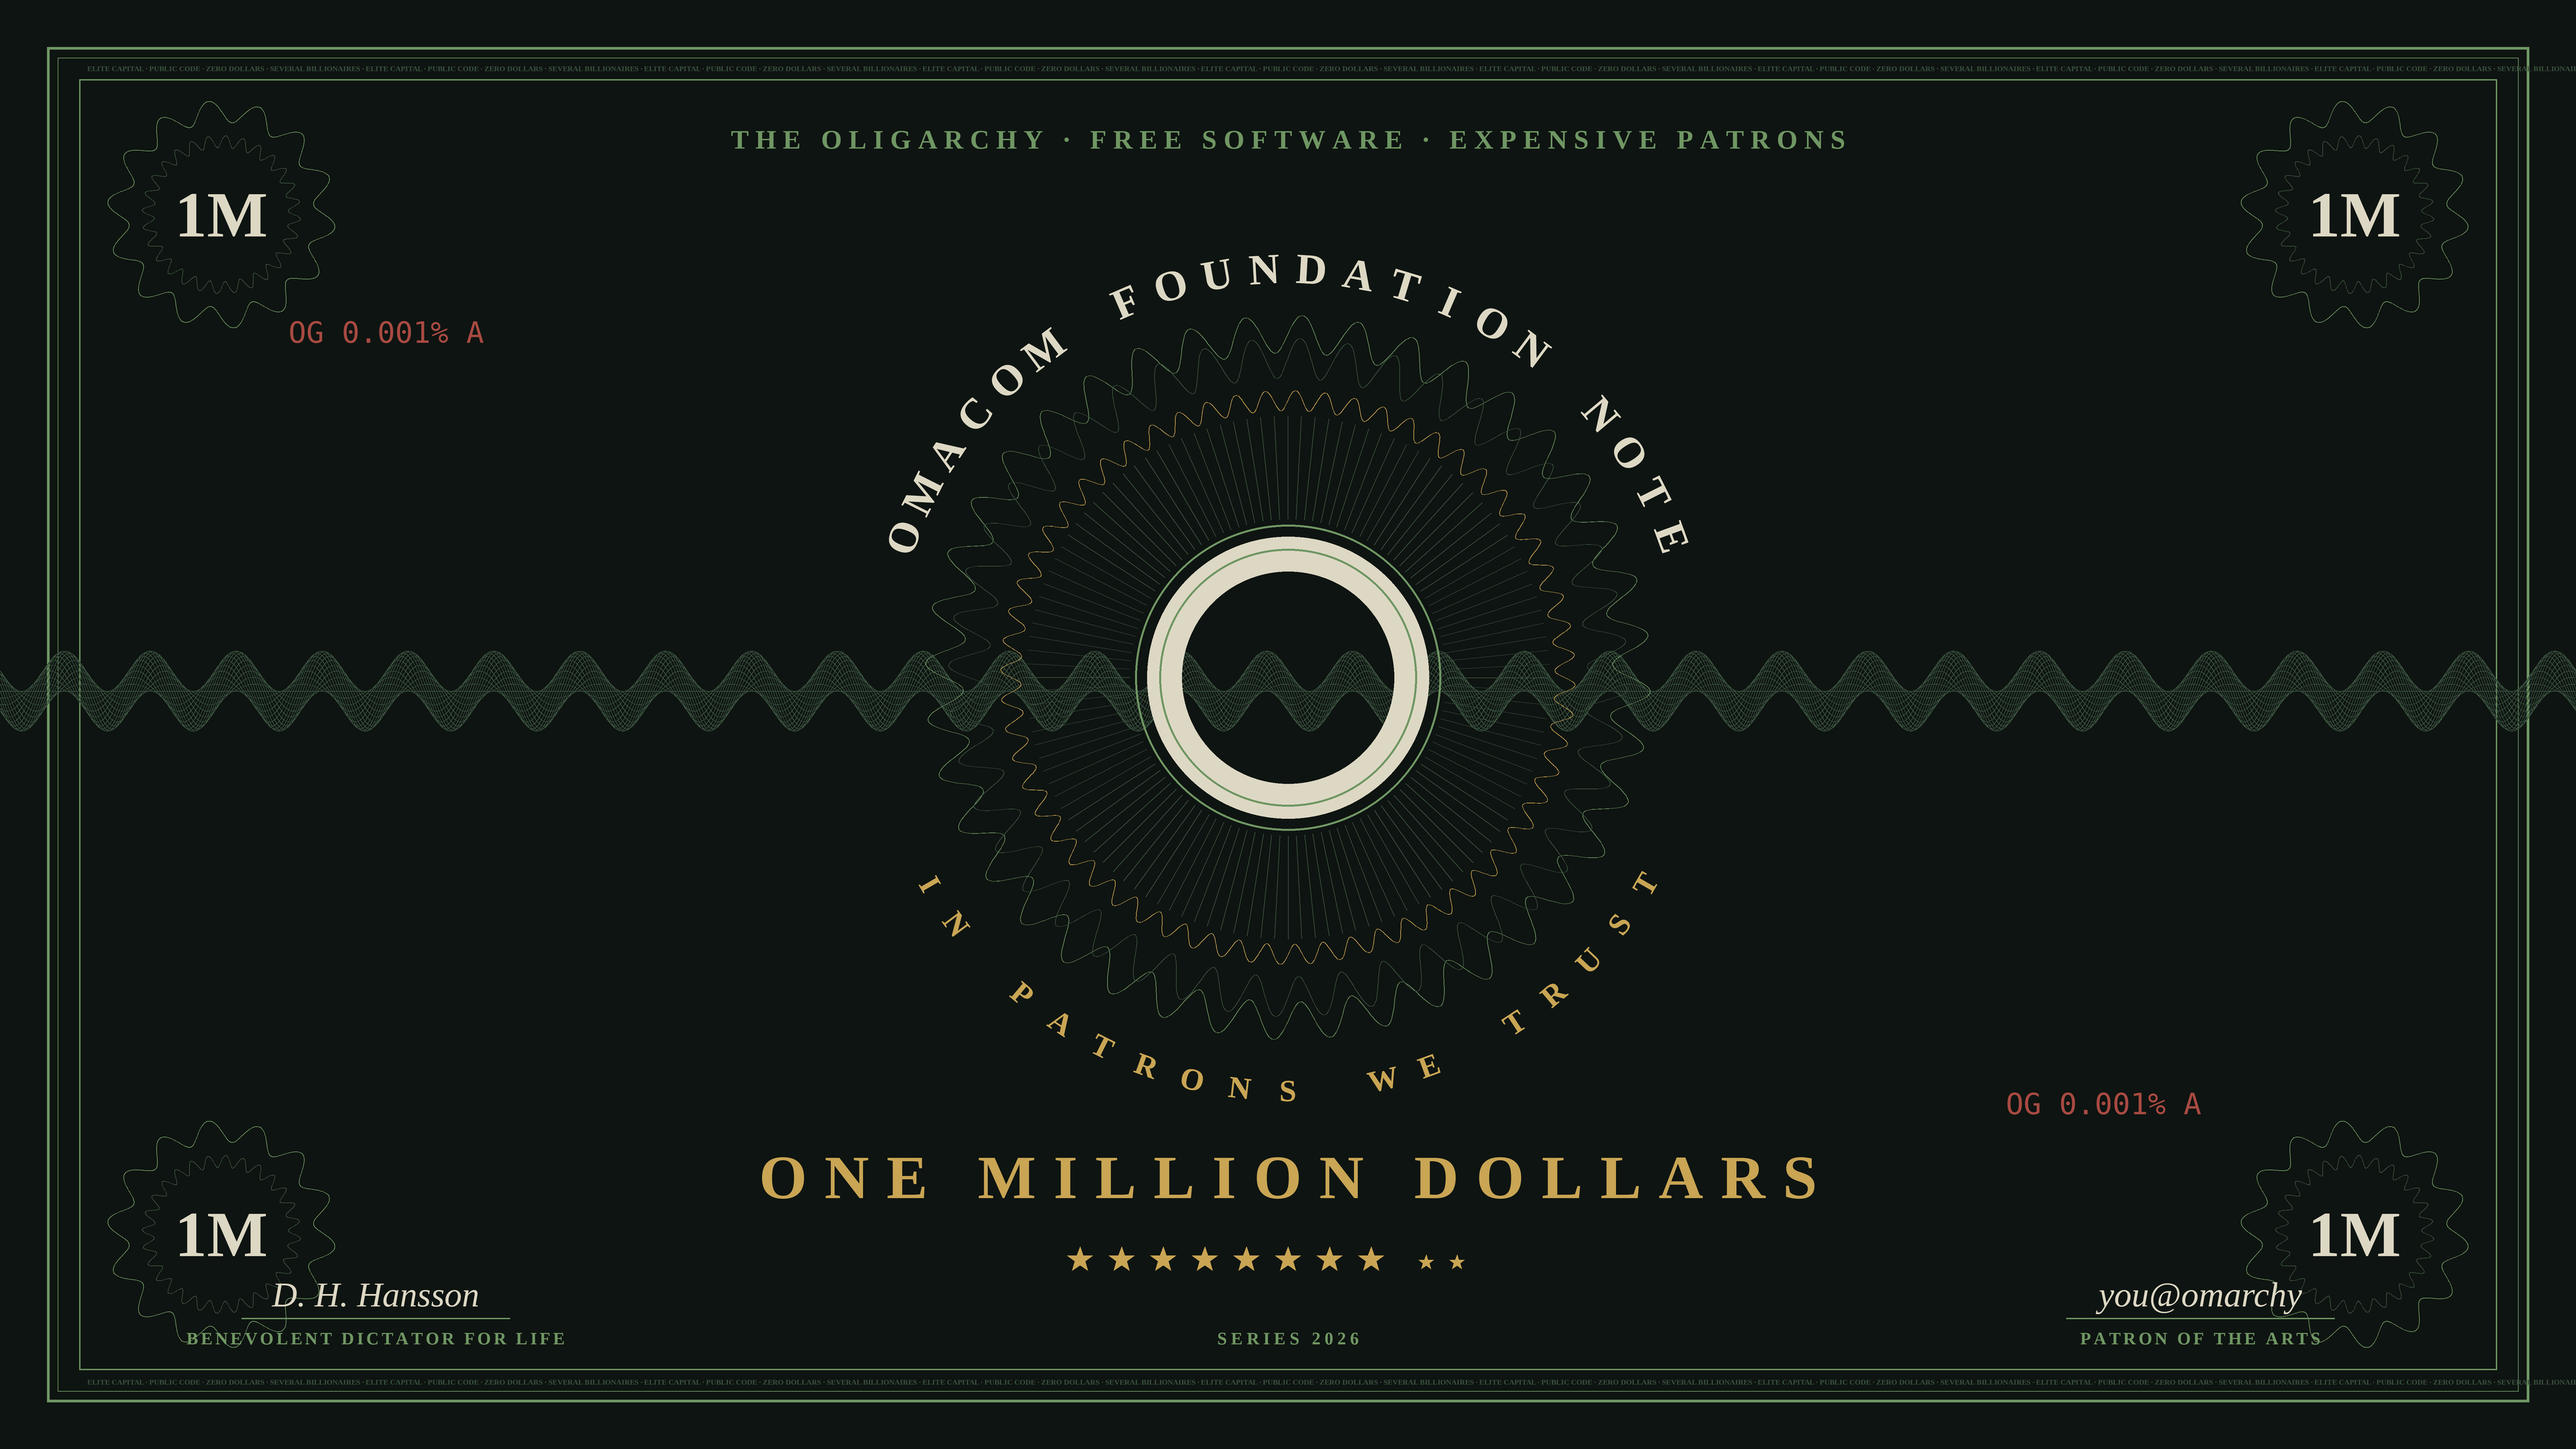
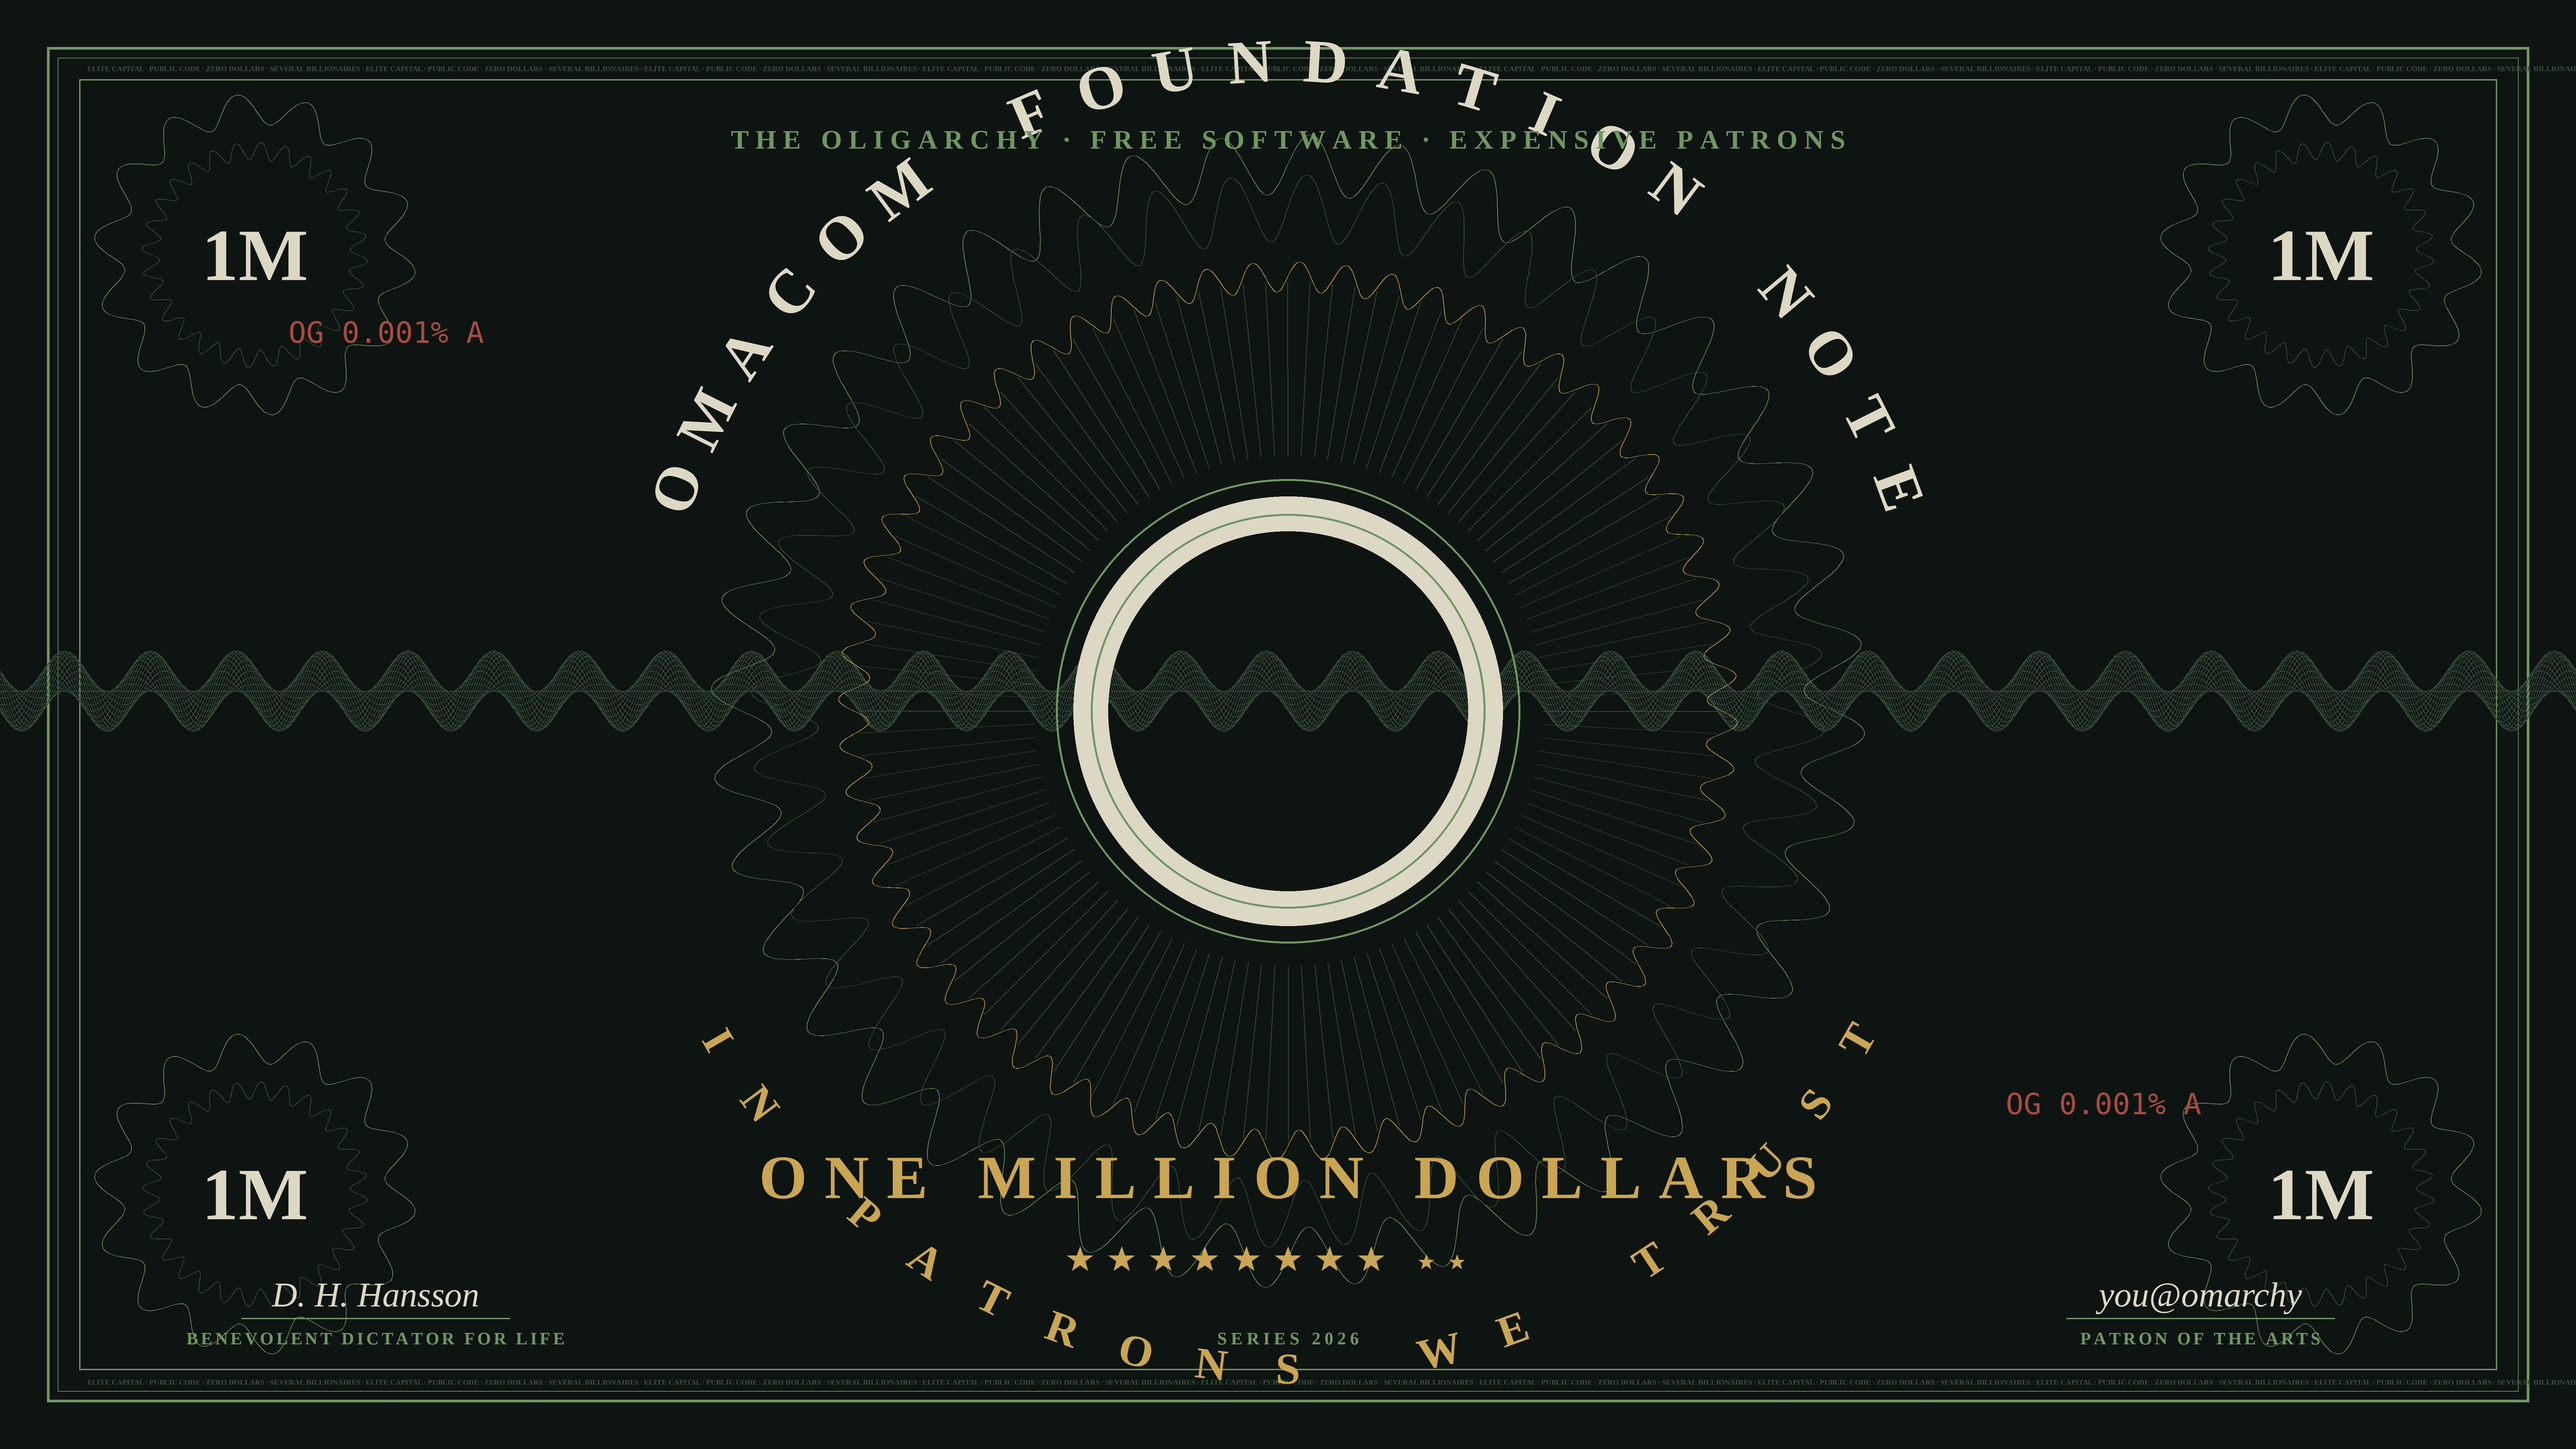
Add 9 denomination variants + backgrounds collage + matching README
Each variant carries its own serial; bin/variants.py regenerates the
set and bin/make_collage.py composes the 3x2 grid into backgrounds.jpg,
matching the layout dhh uses in omarchy-diablo-dreams-theme. The central
medallion is now scaled up so the wallpaper reads as art rather than a
tiny element on a black field. README embeds both preview.png and
backgrounds.jpg.

diff --git a/bin/variants.py b/bin/variants.py
@@ -1,0 +1,110 @@
+#!/usr/bin/env python3
+"""Render the 9 denomination variants of the Omacom Foundation Note.
+
+Reuses the engraving helpers from generate.py but produces 1.jpg .. 9.jpg in
+backgrounds/ at different denominations ($100 .. $10,000,000,000). The collage
+composed by make_collage.py reads them in numeric order.
+"""
+
+import os
+import sys
+import math
+from PIL import Image, ImageDraw, ImageFont
+
+sys.path.insert(0, os.path.dirname(__file__))
+import generate
+from generate import W, H, SS, BG, GREEN, GREEN_DIM, CREAM, GOLD, RED, SERIF, SERIF_IT, MONO
+
+
+DENOMS = [
+    ("100",    "$100",            "ONE HUNDRED DOLLARS"),
+    ("1k",     "$1,000",          "ONE THOUSAND DOLLARS"),
+    ("10k",    "$10,000",         "TEN THOUSAND DOLLARS"),
+    ("100k",   "$100,000",        "ONE HUNDRED THOUSAND DOLLARS"),
+    ("1m",     "$1,000,000",      "ONE MILLION DOLLARS"),
+    ("10m",    "$10,000,000",     "TEN MILLION DOLLARS"),
+    ("100m",   "$100,000,000",    "ONE HUNDRED MILLION DOLLARS"),
+    ("1b",     "$1,000,000,000",  "ONE BILLION DOLLARS"),
+    ("10b",    "$10,000,000,000", "TEN BILLION DOLLARS"),
+]
+
+MICROPRINT = "ELITE CAPITAL \u00b7 PUBLIC CODE \u00b7 ZERO DOLLARS \u00b7 SEVERAL BILLIONAIRES \u00b7 "
+
+
+def render_one(img, d, denom_short, amount_label, headline):
+    def font(path, size):
+        return ImageFont.truetype(path, size * SS)
+
+    # Outer borders + microprint.
+    for m, wd in ((70, 4), (86, 1), (118, 2)):
+        d.rectangle([m * SS, m * SS, W * SS - m * SS, H * SS - m * SS], outline=GREEN, width=wd * SS)
+    mp_font = font(SERIF, 11)
+    for y in (96, H - 106):
+        x = 130 * SS
+        while x < W * SS - 130 * SS:
+            d.text((x, y * SS), MICROPRINT, font=mp_font, fill=GREEN_DIM)
+            x += int(d.textlength(MICROPRINT, font=mp_font))
+
+    generate.lattice_band(970, 1090, GREEN_DIM, waves=30, strands=18)
+
+    for cx, cy in ((330, 320), (W - 330, 320), (330, H - 320), (W - 330, H - 320)):
+        generate.rosette(cx, cy, 170, 138, GREEN, petals=14)
+        generate.rosette(cx, cy, 118, 100, GREEN_DIM, petals=28)
+        generate.text_at(cx, cy, amount_label, font(SERIF, 86), CREAM)
+
+    CX, CY = W // 2, 1010
+    generate.rosette(CX, CY, 540, 484, GREEN, petals=40)
+    generate.rosette(CX, CY, 506, 446, GREEN_DIM, petals=44)
+    generate.rosette(CX, CY, 428, 398, GOLD, petals=60)
+    for t in range(0, 360, 3):
+        a = math.radians(t)
+        r1, r2 = 236 * SS, 390 * SS
+        d.line(
+            [
+                (CX * SS + r1 * math.cos(a), CY * SS + r1 * math.sin(a)),
+                (CX * SS + r2 * math.cos(a), CY * SS + r2 * math.sin(a)),
+            ],
+            fill=GREEN_DIM,
+            width=SS,
+        )
+    d.ellipse([(CX - 210) * SS, (CY - 210) * SS, (CX + 210) * SS, (CY + 210) * SS], outline=CREAM, width=52 * SS)
+    d.ellipse([(CX - 228) * SS, (CY - 228) * SS, (CX + 228) * SS, (CY + 228) * SS], outline=GREEN, width=3 * SS)
+    d.ellipse([(CX - 192) * SS, (CY - 192) * SS, (CX + 192) * SS, (CY + 192) * SS], outline=GREEN, width=3 * SS)
+
+    generate.arc_text(CX, CY, 610, "OMACOM FOUNDATION NOTE", font(SERIF, 64), CREAM, 200, 340)
+    generate.arc_text(CX, CY, 616, "IN PATRONS WE TRUST", font(SERIF, 46), GOLD, 150, 30, flip=True)
+
+    generate.text_at(W // 2, 1755, headline, font(SERIF, 78), GOLD, tracking=22)
+    generate.text_at(W // 2, 208, "THE OLIGARCHY \u00b7 FREE SOFTWARE \u00b7 EXPENSIVE PATRONS", font(SERIF, 40), GREEN, tracking=10)
+
+    sx = W // 2 - 5 * 62
+    for i in range(8):
+        generate.star(sx + i * 62, 1878, 20, GOLD)
+    for i in range(2):
+        generate.star(sx + 8 * 62 + 20 + i * 46, 1882, 12, GOLD)
+
+    ser = font(MONO, 44)
+    d.text((430 * SS, 470 * SS), f"OG 0.001% {denom_short.upper()}", font=ser, fill=RED)
+    d.text(((W - 850) * SS, 1620 * SS), f"OG 0.001% {denom_short.upper()}", font=ser, fill=RED)
+
+    sig = font(SERIF_IT, 52)
+    cap = font(SERIF, 26)
+    d.text((560 * SS, 1930 * SS), "D. H. Hansson", font=sig, fill=CREAM, anchor="mm")
+    d.line([360 * SS, 1965 * SS, 760 * SS, 1965 * SS], fill=GREEN, width=2 * SS)
+    generate.text_at(560, 1995, "BENEVOLENT DICTATOR FOR LIFE", cap, GREEN, tracking=4)
+    d.text(((W - 560) * SS, 1930 * SS), "you@omarchy", font=sig, fill=CREAM, anchor="mm")
+    d.line([(W - 760) * SS, 1965 * SS, (W - 360) * SS, 1965 * SS], fill=GREEN, width=2 * SS)
+    generate.text_at(W - 560, 1995, "PATRON OF THE ARTS", cap, GREEN, tracking=4)
+    generate.text_at(W // 2, 1995, f"SERIES 2026 \u00b7 {denom_short.upper()}", cap, GREEN, tracking=6)
+
+
+if __name__ == "__main__":
+    os.makedirs("backgrounds", exist_ok=True)
+    for i, (short, label, headline) in enumerate(DENOMS, start=1):
+        canvas = Image.new("RGB", (W * SS, H * SS), BG)
+        draw = ImageDraw.Draw(canvas)
+        render_one(canvas, draw, short, label, headline)
+        out = canvas.resize((W, H), Image.LANCZOS)
+        path = f"backgrounds/{i}-foundation-note-{short}.jpg"
+        out.convert("RGB").save(path, "JPEG", quality=88, optimize=True)
+        print(f"saved {path}")

diff --git a/bin/generate.py b/bin/generate.py
@@ -121,20 +121,20 @@ for y in (96, H - 106):
 lattice_band(970, 1090, GREEN_DIM, waves=30, strands=18)
 
 # ── Corner denomination rosettes ────────────────────────────────────────────
-for cx, cy in ((330, 320), (W - 330, 320), (330, H - 320), (W - 330, H - 320)):
-    rosette(cx, cy, 170, 138, GREEN, petals=14)
-    rosette(cx, cy, 118, 100, GREEN_DIM, petals=28)
-    text_at(cx, cy, "1M", font(SERIF, 96), CREAM)
+for cx, cy in ((380, 380), (W - 380, 380), (380, H - 380), (W - 380, H - 380)):
+    rosette(cx, cy, 240, 195, GREEN, petals=14)
+    rosette(cx, cy, 168, 142, GREEN_DIM, petals=28)
+    text_at(cx, cy, "1M", font(SERIF, 110), CREAM)
 
 # ── Central medallion ────────────────────────────────────────────────────────
-CX, CY = W // 2, 1010
-rosette(CX, CY, 540, 484, GREEN, petals=40)
-rosette(CX, CY, 506, 446, GREEN_DIM, petals=44)
-rosette(CX, CY, 428, 398, GOLD, petals=60)
+CX, CY = W // 2, 1060
+rosette(CX, CY, 860, 770, GREEN, petals=40)
+rosette(CX, CY, 800, 700, GREEN_DIM, petals=44)
+rosette(CX, CY, 670, 625, GOLD, petals=60)
 # Radial engraving shading inside the ring.
 for t in range(0, 360, 3):
     a = math.radians(t)
-    r1, r2 = 236 * SS, 390 * SS
+    r1, r2 = 380 * SS, 640 * SS
     d.line(
         [
             (CX * SS + r1 * math.cos(a), CY * SS + r1 * math.sin(a)),
@@ -145,24 +145,24 @@ for t in range(0, 360, 3):
     )
 # The O: a heavy engraved ring.
 d.ellipse(
-    [(CX - 210) * SS, (CY - 210) * SS, (CX + 210) * SS, (CY + 210) * SS],
+    [(CX - 320) * SS, (CY - 320) * SS, (CX + 320) * SS, (CY + 320) * SS],
     outline=CREAM,
     width=52 * SS,
 )
 d.ellipse(
-    [(CX - 228) * SS, (CY - 228) * SS, (CX + 228) * SS, (CY + 228) * SS],
+    [(CX - 346) * SS, (CY - 346) * SS, (CX + 346) * SS, (CY + 346) * SS],
     outline=GREEN,
     width=3 * SS,
 )
 d.ellipse(
-    [(CX - 192) * SS, (CY - 192) * SS, (CX + 192) * SS, (CY + 192) * SS],
+    [(CX - 294) * SS, (CY - 294) * SS, (CX + 294) * SS, (CY + 294) * SS],
     outline=GREEN,
     width=3 * SS,
 )
 
 # Arc captions around the medallion.
-arc_text(CX, CY, 610, "OMACOM FOUNDATION NOTE", font(SERIF, 64), CREAM, 200, 340)
-arc_text(CX, CY, 616, "IN PATRONS WE TRUST", font(SERIF, 46), GOLD, 150, 30, flip=True)
+arc_text(CX, CY, 970, "OMACOM FOUNDATION NOTE", font(SERIF, 92), CREAM, 200, 340)
+arc_text(CX, CY, 980, "IN PATRONS WE TRUST", font(SERIF, 66), GOLD, 150, 30, flip=True)
 
 # ── Headline and denomination ───────────────────────────────────────────────
 text_at(W // 2, 1755, "ONE MILLION DOLLARS", font(SERIF, 92), GOLD, tracking=26)

diff --git a/bin/make_collage.py b/bin/make_collage.py
@@ -1,0 +1,50 @@
+#!/usr/bin/env python3
+"""Compose a 3x2 collage of the 9 denomination variants into backgrounds.jpg.
+
+Matches the layout dhh uses in omarchy-diablo-dreams-theme: thin dark gutter,
+no captions, full-bleed cells, 3 columns x 2 rows, 1800x1200 total.
+
+Crop window: the medallion + serial sits in the upper-middle of each wallpaper;
+we crop a 16:9 region centered on the medallion so the collage shows the
+focal art, not vast black sky and signature margin.
+"""
+
+import glob
+from PIL import Image
+
+COLS = 3
+ROWS = 2
+CELL_W = 600
+CELL_H = 600
+GUTTER = 2
+OUT_W = COLS * CELL_W + (COLS - 1) * GUTTER
+OUT_H = ROWS * CELL_H + (ROWS - 1) * GUTTER
+
+# Source wallpaper is 3840x2160. Medallion sits roughly at (1920, 1010).
+# Crop a 16:9 window centered there -> 1920x1080 from a 3840x2160 source.
+SRC_CROP_W = 3840
+SRC_CROP_H = 2160
+SRC_CROP_X = 0
+SRC_CROP_Y = 0
+
+
+def main():
+    files = sorted(glob.glob("backgrounds/[1-9]-*.jpg"))
+    assert len(files) == 9, f"expected 9 variant jpgs, got {len(files)}: {files}"
+    bg = (10, 10, 10)
+    canvas = Image.new("RGB", (OUT_W, OUT_H), bg)
+    for idx, path in enumerate(files):
+        col, row = divmod(idx, COLS)
+        im = Image.open(path).convert("RGB").crop(
+            (SRC_CROP_X, SRC_CROP_Y, SRC_CROP_X + SRC_CROP_W, SRC_CROP_Y + SRC_CROP_H)
+        )
+        resized = im.resize((CELL_W, CELL_H), Image.LANCZOS)
+        x0 = col * (CELL_W + GUTTER)
+        y0 = row * (CELL_H + GUTTER)
+        canvas.paste(resized, (x0, y0))
+    canvas.save("backgrounds.jpg", "JPEG", quality=88, optimize=True)
+    print(f"saved backgrounds.jpg ({OUT_W}x{OUT_H})")
+
+
+if __name__ == "__main__":
+    main()

diff --git a/README.md b/README.md
@@ -2,12 +2,19 @@
 
 An Omarchy theme. Elite capital. Public code.
 
-The wallpaper is the printing plate of a one-million-dollar Omacom Foundation
-Note: guilloche rosettes, a lathe-work band, eight security stars for the eight
-founding patrons (plus two smaller ones, added later), serial number
-`OG 0.001% A`, and genuine anti-counterfeit microprinting. Zoom in on the
-border. The terminal palette is intaglio ink: money green, gold leaf, cream
-paper, and serial-number red on black-green plate.
+![Legal Tender preview](preview.png)
+
+![Legal Tender backgrounds](backgrounds.jpg)
+
+The wallpaper is the printing plate of an Omacom Foundation Note: guilloche
+rosettes, a lathe-work band, eight security stars for the eight founding
+patrons (plus two smaller ones, added later), and genuine anti-counterfeit
+microprinting. Zoom in on the border. The terminal palette is intaglio ink:
+money green, gold leaf, cream paper, and serial-number red on black-green plate.
+
+Nine denominations ship with the theme - $100, $1,000, $10,000, $100,000,
+$1,000,000, $10,000,000, $100,000,000, $1,000,000,000, and $10,000,000,000.
+Each carries its own serial (`OG 0.001% 100`, `OG 0.001% 1M`, etc).
 
 Zero dollars. Several billionaires.
 
@@ -19,8 +26,13 @@ omarchy-theme-install https://github.com/joshuaswarren/omarchy-theme-legal-tende
 
 ## Anatomy
 
-- `backgrounds/legal-tender.png` - the plate, 3840x2160, procedurally generated
+- `preview.png` - hero wallpaper
+- `backgrounds.jpg` - all 9 denominations at a glance
+- `backgrounds/[1-9]-foundation-note-*.jpg` - individual denominations
+- `backgrounds/legal-tender.png` - the canonical $1M note at 3840x2160
 - `bin/generate.py` - the engraving lathe; regenerates wallpaper and unlock glyph
+- `bin/variants.py` - renders the 9 denomination variants
+- `bin/make_collage.py` - composes the 3x2 collage into `backgrounds.jpg`
 - `colors.toml` - terminal and shell palette
 - `btop.theme`, `neovim.lua` (inline mini.base16), `vscode.json`, `icons.theme`
 - `unlock.png` - a small 1M rosette for the lock screen
